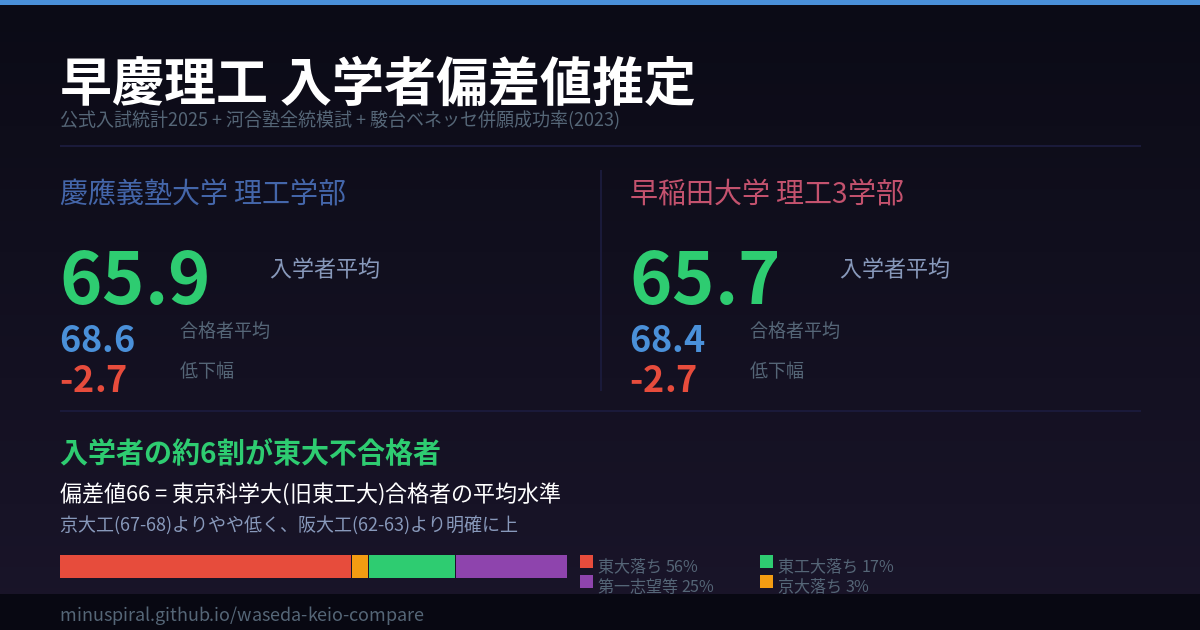
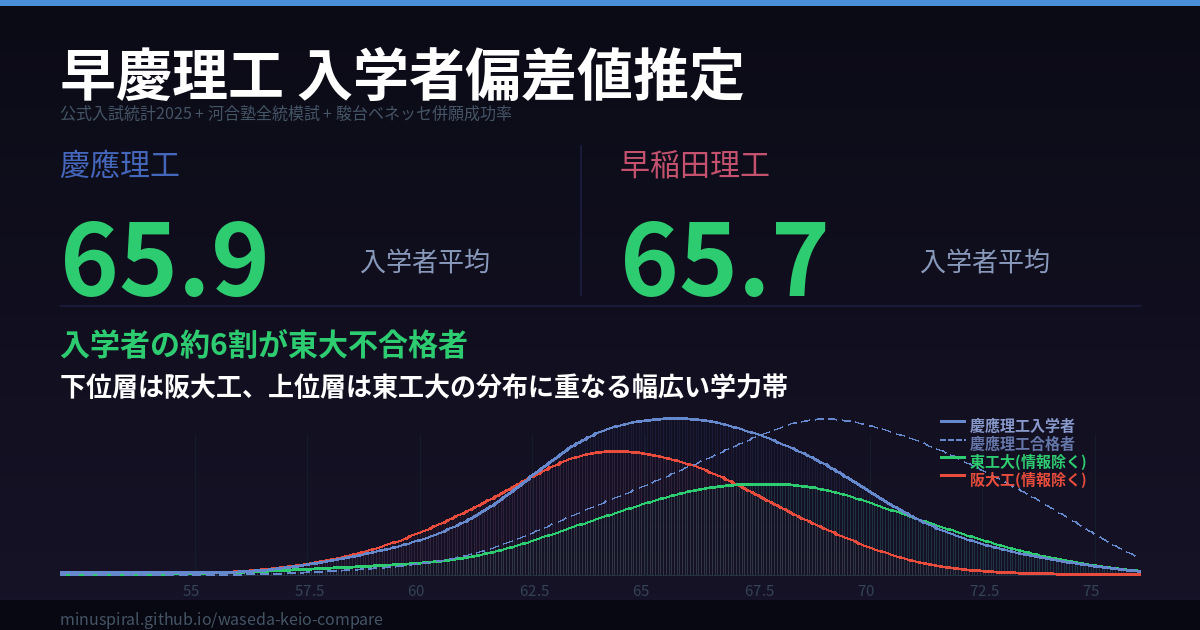
分布考察を更新: 下位層は阪大工/上位層は東工大に重なる幅広い学力帯
- OGP: 慶應合格者(破線)追加、阪大データ修正(avg64.5)、考察テキスト更新
- App.jsx: 構成分析タブ・nationalタブの考察を統一更新
- index.html: SEO description/OGP/Twitter Card更新

diff --git a/src/App.jsx b/src/App.jsx
@@ -179,7 +179,7 @@ export default function App(){
         </div>
 
         <nav aria-label="タブ切り替え" style={{display:"flex",flexWrap:"wrap",borderBottom:"1px solid rgba(255,255,255,0.05)",marginBottom:12}}>
-          {tb("composition","構成分析")}{tb("compare","学科別比較")}{tb("keio","慶應")}{tb("waseda","早稲田")}{tb("verify","検証")}
+          {tb("composition","構成分析")}{tb("national","国公立との比較")}{tb("compare","学科別比較")}{tb("keio","慶應")}{tb("waseda","早稲田")}{tb("verify","検証")}
         </nav>
 
         {tab==="composition"&&(<div>
@@ -213,7 +213,7 @@ export default function App(){
             <b style={{color:"#fff",fontSize:15}}>入学者平均 偏差値66の構造</b><br/><br/>
             <b style={{color:CL.e}}>入学者の約6割が東大不合格者</b>（平均66.9、東大ボーダー67.5直下）。偏差値70+の東大落ちの多くは浪人を選ぶため、実際に入学するのは65-68付近が中心。<br/><br/>
             <b style={{color:CL.d}}>東工大落ち(約17%)</b>と<b style={{color:"#8E44AD"}}>第一志望等(約20-25%)</b>が平均63-65で全体を引き下げ、結果として入学者平均は<b style={{color:CL.e}}>約66</b>に収束。<br/><br/>
-            偏差値66 ≒ <b style={{color:"#fff"}}>東京科学大(旧東工大)合格者の平均水準</b>。京大工(67-68)よりやや低く、阪大工(62-63)よりは明確に上。</div>
+            国立大は併願不可のためボーダー付近に分布が集中し、上位・下位とも極端に薄い。河合塾全統模試の実データでは、<b style={{color:"#4466BB"}}>慶應理工入学者の分布は下位層が阪大工(平均64.5)と重なり、上位層が東工大(平均67.0)の分布に重なる幅広い学力帯</b>となっている。合格者平均68.6から入学者平均65.9への低下は、この幅広さに起因する。詳細は「国公立との比較」タブを参照。</div>
         </div>)}
 
         {tab==="compare"&&(<div>
@@ -256,6 +256,73 @@ export default function App(){
         {tab==="waseda"&&(<div>{["基幹理工","創造理工","先進理工"].map(fac=>{const items=Object.entries(WG).filter(([_,g])=>g.fac===fac);return(<div key={fac} style={{marginBottom:10}}>
           <div style={{fontSize:15,fontWeight:600,color:CL.wsd,marginBottom:6,paddingLeft:4}}>{fac}学部</div>
           {items.map(([k,g])=>(<Card key={k} g={g} enr={wByG[k].e} mids={WM} label={g.l} color={g.c}/>))}</div>);})}</div>)}
+
+        {tab==="national"&&(<div>
+          <div style={{background:"rgba(255,255,255,0.025)",borderRadius:12,padding:"14px",border:"1px solid rgba(255,255,255,0.04)",marginBottom:12}}>
+            <div style={{fontSize:16,fontWeight:600,color:"#fff",marginBottom:6}}>慶應理工入学者 vs 国公立合格者の学力分布</div>
+            <p style={{fontSize:12,color:"#889",margin:"0 0 12px",lineHeight:1.6}}>河合塾全統模試の偏差値帯別合格者数（実データ）と、本サイトの慶應理工入学者推定を比較。国立大は併願不可のため分布がボーダー付近に集中し、上位・下位とも薄い。</p>
+            {(()=>{
+              const natData=[
+                {name:"慶應理工入学者(推定)",color:"#4466BB",avg:kAE.toFixed(1),n:kTE,data:kEnr,mids:KM},
+                {name:"東工大合格者(実データ)",color:"#2ECC71",avg:"67.0",n:381,
+                  data:[0,0,0,0,3,10,15,61,105,109,59],
+                  mids:MR.map(m=>m)},
+                {name:"阪大工合格者(実データ)",color:"#E74C3C",avg:"64.5",n:518,
+                  data:[0,0,1,2,24,85,184,152,63,6,1],
+                  mids:MR.map(m=>m)},
+              ];
+              const allMax=Math.max(...natData.flatMap(d=>d.data));
+              return(<div>
+                {natData.map((nd,idx)=>(<div key={idx} style={{marginBottom:12}}>
+                  <div style={{display:"flex",justifyContent:"space-between",alignItems:"baseline",marginBottom:4,flexWrap:"wrap",gap:6}}>
+                    <span style={{fontSize:14,fontWeight:600,color:nd.color}}>{nd.name}</span>
+                    <span style={{fontSize:12,color:"#889"}}>平均 <b style={{color:CL.e}}>{nd.avg}</b>　N={nd.n}</span>
+                  </div>
+                  <div role="img" aria-label={nd.name+"の分布"} style={{display:"flex",gap:2,alignItems:"flex-end",height:100,paddingBottom:20,position:"relative"}}>
+                    {nd.data.map((v,i)=>{const bh=allMax>0?(v/allMax)*80:0;
+                      return(<div key={i} style={{flex:1,display:"flex",flexDirection:"column",alignItems:"center",justifyContent:"flex-end",height:"100%",position:"relative"}}>
+                        {v>0&&<div style={{fontSize:8,color:"#99a",marginBottom:1}}>{Math.round(v)}</div>}
+                        <div style={{width:"85%",height:bh,background:nd.color+"88",borderRadius:"3px 3px 0 0"}}/>
+                        <div style={{position:"absolute",bottom:0,fontSize:8,color:"#667"}}>{BS[i]}</div></div>);})}
+                  </div>
+                </div>))}
+              </div>);
+            })()}
+          </div>
+          <div style={{background:"rgba(255,255,255,0.025)",borderRadius:12,padding:"14px",border:"1px solid rgba(255,255,255,0.04)",marginBottom:12}}>
+            <div style={{fontSize:16,fontWeight:600,color:"#fff",marginBottom:8}}>数値比較</div>
+            <table style={{width:"100%",borderCollapse:"collapse",fontSize:13}} aria-label="国公立比較">
+              <thead><tr style={{borderBottom:"1px solid rgba(255,255,255,0.08)"}}>
+                {["","平均偏差値","最頻値帯","人数","分布の特徴"].map(h=>(<th key={h} style={{padding:"6px 4px",textAlign:h===""?"left":"center",color:"#889",fontWeight:500,fontSize:11}}>{h}</th>))}</tr></thead>
+              <tbody>
+                <tr style={{borderBottom:"1px solid rgba(255,255,255,0.03)"}}>
+                  <td style={{padding:"6px 4px",color:"#4466BB",fontWeight:600,fontSize:12}}>慶應理工入学者</td>
+                  <td style={{padding:"6px 4px",textAlign:"center",color:CL.e,fontWeight:700}}>{kAE.toFixed(1)}</td>
+                  <td style={{padding:"6px 4px",textAlign:"center",color:"#ccd"}}>63.8-66.3</td>
+                  <td style={{padding:"6px 4px",textAlign:"center",color:"#ccd"}}>{kTE}</td>
+                  <td style={{padding:"6px 4px",textAlign:"center",color:"#889",fontSize:11}}>右に厚い非対称（東大落ちが上位に集中）</td></tr>
+                <tr style={{borderBottom:"1px solid rgba(255,255,255,0.03)"}}>
+                  <td style={{padding:"6px 4px",color:"#2ECC71",fontWeight:600,fontSize:12}}>東工大合格者</td>
+                  <td style={{padding:"6px 4px",textAlign:"center",color:CL.e,fontWeight:700}}>67.0</td>
+                  <td style={{padding:"6px 4px",textAlign:"center",color:"#ccd"}}>66.3-68.8</td>
+                  <td style={{padding:"6px 4px",textAlign:"center",color:"#ccd"}}>381</td>
+                  <td style={{padding:"6px 4px",textAlign:"center",color:"#889",fontSize:11}}>ボーダー集中、上下とも薄い</td></tr>
+                <tr style={{borderBottom:"1px solid rgba(255,255,255,0.03)"}}>
+                  <td style={{padding:"6px 4px",color:"#E74C3C",fontWeight:600,fontSize:12}}>阪大工合格者</td>
+                  <td style={{padding:"6px 4px",textAlign:"center",color:CL.e,fontWeight:700}}>64.5</td>
+                  <td style={{padding:"6px 4px",textAlign:"center",color:"#ccd"}}>61.3-63.8</td>
+                  <td style={{padding:"6px 4px",textAlign:"center",color:"#ccd"}}>518</td>
+                  <td style={{padding:"6px 4px",textAlign:"center",color:"#889",fontSize:11}}>ボーダー集中、上下とも薄い</td></tr>
+              </tbody></table>
+          </div>
+          <div style={{background:"rgba(46,204,113,0.04)",borderRadius:12,padding:"14px",border:"1px solid rgba(46,204,113,0.1)",fontSize:13,lineHeight:1.8,color:"#9aab99"}}>
+            <b style={{color:"#fff",fontSize:15}}>分布から読み取れること</b><br/><br/>
+            <b style={{color:"#4466BB"}}>慶應理工入学者の分布は、下位層が阪大工と重なり、上位層が東工大と重なる幅広い学力帯。</b>合格者平均は68.6だが、上位層（東大落ち70+）の多くが浪人を選ぶため入学者は65-68帯に集中し、平均は65.9に低下する。この入学者分布は東工大合格者(平均67.0)の分布と大きく重複する一方、下位層では阪大工(平均64.5)の分布域にも及ぶ。<br/><br/>
+            <b style={{color:"#2ECC71"}}>東工大合格者</b>は65-70に密集し、72.5以上はごく少数。<b style={{color:"#E74C3C"}}>阪大工合格者</b>は61.3-63.8に密集し、67.5以上はほぼ皆無。いずれも国立大の「併願不可→ボーダー集中」の特徴が顕著で、正規分布より裾が薄い尖った分布となる。<br/><br/>
+            <b style={{color:"#fff"}}>なぜ国立大の分布は尖っているのか?</b> 国立大は前期日程で1校しか受けられないため、「余裕で受かる上位層」も「記念受験の下位層」もおらず、ボーダー付近に人数が集中する。私立の早慶は併願先として幅広い層が受験・入学するため、分布が広くなる。<br/><br/>
+            データソース: 河合塾全統模試 偏差値帯別合格者数（情報系学科を除く工学系）
+          </div>
+        </div>)}
 
         {tab==="verify"&&(<div>
           <div style={{...scrollBox,marginBottom:10}}>

diff --git a/index.html b/index.html
@@ -12,13 +12,13 @@
     <meta charset="UTF-8" />
     <meta name="viewport" content="width=device-width, initial-scale=1.0" />
     <title>早慶理工 入学者偏差値推定 | 合格者偏差値との乖離を可視化</title>
-    <meta name="description" content="早稲田・慶應理工学部の入学者偏差値を公式統計・河合塾・駿台ベネッセ併願データから推定。入学者平均は約66で東工大と同水準、阪大理系より上。東大落ち約6割の構成分析も掲載。" />
-    <meta name="keywords" content="早慶理工,入学者偏差値,早稲田理工,慶應理工,東工大,併願成功率,辞退率,合格者偏差値,偏差値推定" />
+    <meta name="description" content="早稲田・慶應理工学部の入学者偏差値を公式統計・河合塾・駿台ベネッセ併願データから推定。入学者平均約66。入学者の学力分布は下位層が阪大工(平均64.5)と重なり、上位層が東工大(平均67.0)に重なる幅広い学力帯。東大落ち約6割の構成分析も掲載。" />
+    <meta name="keywords" content="早慶理工,入学者偏差値,早稲田理工,慶應理工,東工大,東工大比較,阪大工,学力分布,併願成功率,辞退率,合格者偏差値,偏差値推定" />
     <link rel="canonical" href="https://minuspiral.github.io/waseda-keio-compare/" />
 
     <!-- OGP -->
     <meta property="og:title" content="早慶理工 入学者偏差値推定" />
-    <meta property="og:description" content="合格者偏差値ではなく入学者偏差値を統計的に推定。東大落ち・東工大落ちの構成比を分析し、入学者平均約66の内訳を可視化。" />
+    <meta property="og:description" content="入学者偏差値を統計的に推定。入学者の学力分布は下位層が阪大工、上位層が東工大と重なる幅広い学力帯。東大落ち約6割の構成分析も掲載。" />
     <meta property="og:type" content="article" />
     <meta property="og:url" content="https://minuspiral.github.io/waseda-keio-compare/" />
     <meta property="og:site_name" content="早慶理工 入学者偏差値推定" />
@@ -28,7 +28,7 @@
     <!-- Twitter Card -->
     <meta name="twitter:card" content="summary_large_image" />
     <meta name="twitter:title" content="早慶理工 入学者偏差値推定" />
-    <meta name="twitter:description" content="入学者平均偏差値約66。東大落ち6割、東工大落ち17%の構成分析。" />
+    <meta name="twitter:description" content="入学者平均偏差値約66。下位層は阪大工、上位層は東工大の分布に重なる幅広い学力帯。東大落ち6割の構成分析も掲載。" />
     <meta name="twitter:image" content="https://minuspiral.github.io/waseda-keio-compare/ogp.png" />
 
     <!-- 構造化データ -->
@@ -41,7 +41,7 @@
       "author": {"@type": "Person", "name": "minuspiral"},
       "url": "https://minuspiral.github.io/waseda-keio-compare/",
       "inLanguage": "ja",
-      "keywords": ["早慶理工", "入学者偏差値", "併願成功率", "辞退率"]
+      "keywords": ["早慶理工", "入学者偏差値", "併願成功率", "辞退率", "東工大比較", "阪大工比較", "学力分布"]
     }
     </script>
 
@@ -80,7 +80,19 @@
 
       <h2>入学者の構成</h2>
       <p>入学者の約6割が東大不合格者（平均偏差値66.9）で構成されています。東工大落ち（約17%、平均63〜64）と第一志望等（約20〜25%、平均63〜65）が全体平均を引き下げ、入学者平均は約66に収束します。</p>
-      <p>偏差値66は東京科学大学（旧東工大）合格者の平均水準とほぼ同等であり、阪大理系（情報科学除く、推定62〜63）を明確に上回ります。</p>
+      <h2>国公立大学との学力分布比較</h2>
+      <p>河合塾全統模試の偏差値帯別合格者数（実データ、情報系学科を除く工学系）と本サイトの慶應理工入学者推定を比較します。国立大学は前期日程で1校しか受験できないため、合格者の学力分布はボーダー付近に集中し、上位層も下位層も薄い特徴があります。また国立は併願不可のため合格者≈入学者となり、実質的に入学者同士の比較となります。</p>
+      <table class="data-table">
+        <thead>
+          <tr><th>大学</th><th>平均偏差値</th><th>最頻値帯</th><th>人数</th><th>分布の特徴</th></tr>
+        </thead>
+        <tbody>
+          <tr><td>慶應理工入学者(推定)</td><td>65.9</td><td>63.8-66.3</td><td>655</td><td>右に厚い非対称（東大落ちが上位に集中）</td></tr>
+          <tr><td>東工大合格者(実データ)</td><td>67.0</td><td>66.3-68.8</td><td>381</td><td>ボーダー集中、上下とも薄い</td></tr>
+          <tr><td>阪大工合格者(実データ)</td><td>64.5</td><td>61.3-63.8</td><td>518</td><td>ボーダー集中、上下とも薄い</td></tr>
+        </tbody>
+      </table>
+      <p>慶應理工入学者の学力分布は、下位層が阪大工合格者(平均64.5)の分布と重なり、上位層が東工大合格者(平均67.0)の分布に重なる幅広い学力帯となっています。合格者平均68.6から入学者平均65.9への低下は、この幅広さに起因します。</p>
 
       <h2>併願成功率の検証（駿台ベネッセ 2023）</h2>
       <table class="data-table">
